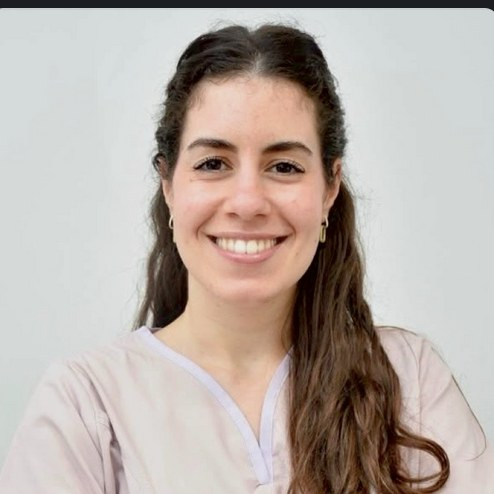
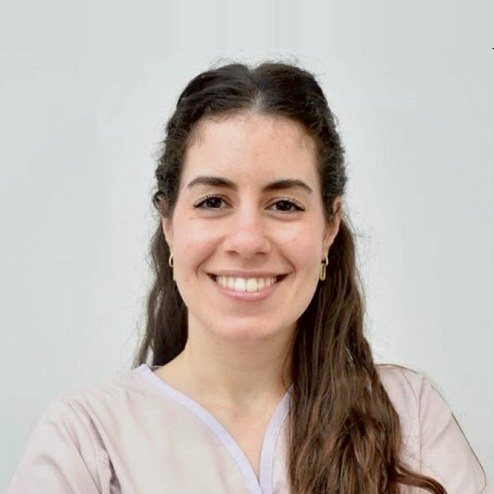
Precios ofrecía un pago en etapas que no existe y el equipo no estaba en orden alfabético
- Precios: sale la tarjeta "Pago en etapas"; el tratamiento incluye escaneos intraorales y contenciones al finalizar.
- Equipo y home: las cuatro ortodoncistas ordenadas por apellido.
- Equipo: se dictan cursos de alineadores dentales; sin comparación con "generalistas" (también en Recoleta, Belgrano, Buenos Aires y el blog).
- Foto de Virginia Heredia sin la franja negra y con aire arriba.

(cherry picked from commit 91c6d7b4066f65199213c3758a9563053bac5a31)

diff --git a/equipo.html b/equipo.html
@@ -73,6 +73,26 @@
 {
   "@context":"https://schema.org",
   "@type":"Person",
+  "name":"Dra. Monica Gonzalez",
+  "jobTitle":"Ortodoncista especializada en alineadores invisibles",
+  "worksFor":{
+    "@type":"Dentist",
+    "name":"Consultorio de Alineadores",
+    "url":"https://consultoriodealineadores.com"
+  },
+  "address":{
+    "@type":"PostalAddress",
+    "streetAddress":"Av. Scalabrini Ortiz 3183",
+    "addressLocality":"Palermo",
+    "addressRegion":"Ciudad Autonoma de Buenos Aires",
+    "addressCountry":"AR"
+  }
+}
+</script>
+<script type="application/ld+json">
+{
+  "@context":"https://schema.org",
+  "@type":"Person",
   "name":"Dra. Virginia Heredia",
   "jobTitle":"Ortodoncista especializada en alineadores invisibles",
   "worksFor":{
@@ -94,26 +114,6 @@
   "@context":"https://schema.org",
   "@type":"Person",
   "name":"Dra. Mariana Matelli",
-  "jobTitle":"Ortodoncista especializada en alineadores invisibles",
-  "worksFor":{
-    "@type":"Dentist",
-    "name":"Consultorio de Alineadores",
-    "url":"https://consultoriodealineadores.com"
-  },
-  "address":{
-    "@type":"PostalAddress",
-    "streetAddress":"Av. Scalabrini Ortiz 3183",
-    "addressLocality":"Palermo",
-    "addressRegion":"Ciudad Autonoma de Buenos Aires",
-    "addressCountry":"AR"
-  }
-}
-</script>
-<script type="application/ld+json">
-{
-  "@context":"https://schema.org",
-  "@type":"Person",
-  "name":"Dra. Monica Gonzalez",
   "jobTitle":"Ortodoncista especializada en alineadores invisibles",
   "worksFor":{
     "@type":"Dentist",
@@ -457,22 +457,22 @@ h3{font-size:clamp(1.15rem,2.5vw,1.5rem);font-weight:600}
         <p class="team-profile-bio">Especialista en ortodoncia con formacion en tratamientos con alineadores. Apasionada por la planificacion digital y los resultados predecibles.</p>
       </article>
       <article class="team-profile fade-up" style="transition-delay:.1s">
+        <img src="img/monica.jpg" alt="Dra. Monica Gonzalez — Ortodoncista especializada en alineadores invisibles" class="team-profile-photo" width="180" height="180" loading="lazy">
+        <h3>Dra. Monica Gonzalez</h3>
+        <div class="team-profile-spec">Ortodoncista — Esp. en alineadores invisibles</div>
+        <p class="team-profile-bio">Con anos de experiencia en ortodoncia, se especializa en tratamientos con alineadores para pacientes adultos.</p>
+      </article>
+      <article class="team-profile fade-up" style="transition-delay:.2s">
         <img src="img/virginia-heredia.jpg" alt="Dra. Virginia Heredia — Ortodoncista especializada en alineadores invisibles" class="team-profile-photo" width="180" height="180" loading="lazy">
         <h3>Dra. Virginia Heredia</h3>
         <div class="team-profile-spec">Ortodoncista — Esp. en alineadores invisibles</div>
         <p class="team-profile-bio">Ortodoncista especializada en tratamientos con alineadores invisibles. Se destaca por el seguimiento cercano y la comunicacion clara con cada paciente durante todo el tratamiento.</p>
       </article>
-      <article class="team-profile fade-up" style="transition-delay:.2s">
+      <article class="team-profile fade-up" style="transition-delay:.3s">
         <img src="img/mariana.jpg" alt="Dra. Mariana Matelli — Ortodoncista especializada en alineadores invisibles" class="team-profile-photo" width="180" height="180" loading="lazy">
         <h3>Dra. Mariana Matelli</h3>
         <div class="team-profile-spec">Ortodoncista — Esp. en alineadores invisibles</div>
         <p class="team-profile-bio">Especialista en ortodoncia estetica. Combina precision tecnica con un trato calido y empatico con cada paciente.</p>
-      </article>
-      <article class="team-profile fade-up" style="transition-delay:.3s">
-        <img src="img/monica.jpg" alt="Dra. Monica Gonzalez — Ortodoncista especializada en alineadores invisibles" class="team-profile-photo" width="180" height="180" loading="lazy">
-        <h3>Dra. Monica Gonzalez</h3>
-        <div class="team-profile-spec">Ortodoncista — Esp. en alineadores invisibles</div>
-        <p class="team-profile-bio">Con anos de experiencia en ortodoncia, se especializa en tratamientos con alineadores para pacientes adultos.</p>
       </article>
     </div>
   </div>
@@ -486,7 +486,7 @@ h3{font-size:clamp(1.15rem,2.5vw,1.5rem);font-weight:600}
       <h2 class="section-title">Por que elegir ortodoncistas que solo hacen alineadores?</h2>
     </div>
     <div class="why-spec-content fade-up">
-      <p>Cuando un profesional se dedica exclusivamente a un tratamiento, desarrolla una experiencia que los generalistas no pueden igualar. Nuestras ortodoncistas ven y resuelven todos los tipos de caso con alineadores, todos los dias.</p>
+      <p>Cuando un profesional se dedica exclusivamente a un tratamiento, desarrolla una experiencia dificil de igualar. Nuestras ortodoncistas ven y resuelven todos los tipos de caso con alineadores, todos los dias, y ademas dictan cursos de alineadores dentales para otros profesionales.</p>
       <div class="why-spec-grid">
         <div class="why-spec-item">
           <div class="why-spec-icon">

diff --git a/precios.html b/precios.html
@@ -284,7 +284,7 @@ h3{font-size:clamp(1.15rem,2.5vw,1.5rem);font-weight:600}
 
 /* ===== PAYMENT OPTIONS ===== */
 .payment{background:var(--white)}
-.payment-grid{display:grid;grid-template-columns:repeat(4,1fr);gap:24px}
+.payment-grid{display:grid;grid-template-columns:repeat(3,1fr);gap:24px}
 .payment-card{
   background:var(--gray-50);border-radius:var(--radius);padding:32px 24px;text-align:center;
   border:1px solid transparent;transition:all .3s;
@@ -635,13 +635,6 @@ h3{font-size:clamp(1.15rem,2.5vw,1.5rem);font-weight:600}
         <h3>Tarjeta de credito</h3>
         <p>En cuotas con tu tarjeta</p>
       </div>
-      <div class="payment-card fade-up" style="transition-delay:.3s">
-        <div class="payment-icon">
-          <svg viewBox="0 0 24 24"><polyline points="22 12 18 12 15 21 9 3 6 12 2 12"/></svg>
-        </div>
-        <h3>Pago en etapas</h3>
-        <p>Acompana el avance del tratamiento</p>
-      </div>
     </div>
   </div>
 </section>
@@ -661,23 +654,31 @@ h3{font-size:clamp(1.15rem,2.5vw,1.5rem);font-weight:600}
       </div>
       <div class="includes-item fade-up" style="transition-delay:.05s">
         <div class="includes-check"><svg viewBox="0 0 24 24"><path d="M20 6L9 17l-5-5"/></svg></div>
-        <span>Plan de tratamiento personalizado con simulacion</span>
+        <span>Escaneos intraorales</span>
       </div>
       <div class="includes-item fade-up" style="transition-delay:.1s">
         <div class="includes-check"><svg viewBox="0 0 24 24"><path d="M20 6L9 17l-5-5"/></svg></div>
-        <span>Todos los juegos de alineadores necesarios</span>
+        <span>Plan de tratamiento personalizado con simulacion</span>
       </div>
       <div class="includes-item fade-up" style="transition-delay:.15s">
         <div class="includes-check"><svg viewBox="0 0 24 24"><path d="M20 6L9 17l-5-5"/></svg></div>
-        <span>Controles regulares durante todo el tratamiento</span>
+        <span>Todos los juegos de alineadores necesarios</span>
       </div>
       <div class="includes-item fade-up" style="transition-delay:.2s">
         <div class="includes-check"><svg viewBox="0 0 24 24"><path d="M20 6L9 17l-5-5"/></svg></div>
-        <span>Seguimiento por WhatsApp con tu ortodoncista</span>
+        <span>Controles regulares durante todo el tratamiento</span>
       </div>
       <div class="includes-item fade-up" style="transition-delay:.25s">
         <div class="includes-check"><svg viewBox="0 0 24 24"><path d="M20 6L9 17l-5-5"/></svg></div>
+        <span>Seguimiento por WhatsApp con tu ortodoncista</span>
+      </div>
+      <div class="includes-item fade-up" style="transition-delay:.3s">
+        <div class="includes-check"><svg viewBox="0 0 24 24"><path d="M20 6L9 17l-5-5"/></svg></div>
         <span>Ajustes si son necesarios</span>
+      </div>
+      <div class="includes-item fade-up" style="transition-delay:.35s">
+        <div class="includes-check"><svg viewBox="0 0 24 24"><path d="M20 6L9 17l-5-5"/></svg></div>
+        <span>Contenciones al finalizar el tratamiento</span>
       </div>
     </div>
     <p class="includes-note fade-up">No hay costos ocultos. Todo se detalla desde el primer dia.</p>

diff --git a/index.html b/index.html
@@ -1089,18 +1089,18 @@ h3{font-size:clamp(1.15rem,2.5vw,1.5rem);font-weight:600}
         <p class="team-spec">Ortodoncista — Esp. en alineadores</p>
       </div>
       <div class="team-card fade-up" style="transition-delay:.1s">
+        <img class="team-photo" src="img/monica.jpg" alt="Dra. Monica Gonzalez, ortodoncista especialista en alineadores invisibles en Palermo" width="300" height="300" loading="lazy">
+        <h3>Dra. Monica Gonzalez</h3>
+        <p class="team-spec">Ortodoncista — Esp. en alineadores</p>
+      </div>
+      <div class="team-card fade-up" style="transition-delay:.2s">
         <img class="team-photo" src="img/virginia-heredia.jpg" alt="Dra. Virginia Heredia, ortodoncista especialista en alineadores invisibles en Palermo" width="300" height="300" loading="lazy">
         <h3>Dra. Virginia Heredia</h3>
         <p class="team-spec">Ortodoncista — Esp. en alineadores</p>
       </div>
-      <div class="team-card fade-up" style="transition-delay:.2s">
+      <div class="team-card fade-up" style="transition-delay:.3s">
         <img class="team-photo" src="img/mariana.jpg" alt="Dra. Mariana Matelli, ortodoncista especialista en alineadores invisibles en Palermo" width="300" height="300" loading="lazy">
         <h3>Dra. Mariana Matelli</h3>
-        <p class="team-spec">Ortodoncista — Esp. en alineadores</p>
-      </div>
-      <div class="team-card fade-up" style="transition-delay:.3s">
-        <img class="team-photo" src="img/monica.jpg" alt="Dra. Monica Gonzalez, ortodoncista especialista en alineadores invisibles en Palermo" width="300" height="300" loading="lazy">
-        <h3>Dra. Monica Gonzalez</h3>
         <p class="team-spec">Ortodoncista — Esp. en alineadores</p>
       </div>
     </div>

diff --git a/blog/keepsmiling-opiniones.html b/blog/keepsmiling-opiniones.html
@@ -395,7 +395,7 @@ h3{font-size:clamp(1.15rem,2.5vw,1.5rem);font-weight:600}
       <p>Estas son las razones principales:</p>
 
       <ul>
-        <li><strong>Especializaci&oacute;n real:</strong> al trabajar solo con un sistema, conocemos cada detalle de c&oacute;mo se planifican los movimientos, qu&eacute; esperar en cada etapa y c&oacute;mo resolver situaciones particulares. No somos generalistas: somos especialistas.</li>
+        <li><strong>Especializaci&oacute;n real:</strong> al trabajar solo con un sistema, conocemos cada detalle de c&oacute;mo se planifican los movimientos, qu&eacute; esperar en cada etapa y c&oacute;mo resolver situaciones particulares. Somos especialistas.</li>
         <li><strong>Conocemos la tecnolog&iacute;a por dentro:</strong> despu&eacute;s de tratar cientos de casos con KeepSmiling, entendemos c&oacute;mo responde cada tipo de movimiento, cu&aacute;ndo conviene agregar recursos auxiliares y c&oacute;mo optimizar la planificaci&oacute;n para cada paciente.</li>
         <li><strong>Fabricaci&oacute;n local:</strong> al ser una marca argentina, los tiempos de entrega son considerablemente m&aacute;s r&aacute;pidos que con marcas importadas. No hay demoras de aduana ni log&iacute;stica internacional.</li>
         <li><strong>Soporte directo del laboratorio:</strong> si necesitamos hacer un ajuste, consultar algo t&eacute;cnico o pedir un refinamiento, la comunicaci&oacute;n con el equipo de KeepSmiling es directa y &aacute;gil. Eso se traduce en un mejor seguimiento de cada caso.</li>

diff --git a/alineadores-invisibles-recoleta.html b/alineadores-invisibles-recoleta.html
@@ -610,7 +610,7 @@ h3{font-size:clamp(1.15rem,2.5vw,1.5rem);font-weight:600}
       <div class="why-card fade-up">
         <div class="why-icon"><svg viewBox="0 0 24 24"><path d="M12 2L2 7l10 5 10-5-10-5z"/><path d="M2 17l10 5 10-5"/><path d="M2 12l10 5 10-5"/></svg></div>
         <h3>Especializacion total</h3>
-        <p>No somos una clinica generalista. 4 ortodoncistas dedicadas exclusivamente a alineadores invisibles. Eso nos hace mejores.</p>
+        <p>4 ortodoncistas dedicadas exclusivamente a alineadores invisibles. Eso nos hace mejores.</p>
       </div>
       <div class="why-card fade-up" style="transition-delay:.1s">
         <div class="why-icon"><svg viewBox="0 0 24 24"><path d="M21 10c0 7-9 13-9 13s-9-6-9-13a9 9 0 0 1 18 0z"/><circle cx="12" cy="10" r="3"/></svg></div>

diff --git a/alineadores-invisibles-buenos-aires.html b/alineadores-invisibles-buenos-aires.html
@@ -633,7 +633,7 @@ h4{font-size:1rem;font-weight:600}
       <div class="why-card fade-up">
         <div class="why-icon"><svg viewBox="0 0 24 24"><path d="M12 2L2 7l10 5 10-5-10-5z"/><path d="M2 17l10 5 10-5"/><path d="M2 12l10 5 10-5"/></svg></div>
         <h3>Especializacion total</h3>
-        <p>Somos el consultorio que solo hace alineadores. Eso nos da una profundidad de experiencia que los generalistas no pueden igualar.</p>
+        <p>Somos el consultorio que solo hace alineadores. Eso nos da una profundidad de experiencia dificil de igualar.</p>
       </div>
       <div class="why-card fade-up" style="transition-delay:.1s">
         <div class="why-icon"><svg viewBox="0 0 24 24"><path d="M12 22s8-4 8-10V5l-8-3-8 3v7c0 6 8 10 8 10z"/></svg></div>

diff --git a/alineadores-invisibles-belgrano.html b/alineadores-invisibles-belgrano.html
@@ -623,7 +623,7 @@ h3{font-size:clamp(1.15rem,2.5vw,1.5rem);font-weight:600}
       <div class="why-card fade-up">
         <div class="why-icon"><svg viewBox="0 0 24 24"><path d="M12 2L2 7l10 5 10-5-10-5z"/><path d="M2 17l10 5 10-5"/><path d="M2 12l10 5 10-5"/></svg></div>
         <h3>Especializacion real</h3>
-        <p>4 ortodoncistas que solo hacen alineadores, no un dentista generalista que "tambien" los ofrece.</p>
+        <p>4 ortodoncistas que solo hacen alineadores invisibles, todos los dias.</p>
       </div>
       <div class="why-card fade-up" style="transition-delay:.1s">
         <div class="why-icon"><svg viewBox="0 0 24 24"><path d="M21 10c0 7-9 13-9 13s-9-6-9-13a9 9 0 0 1 18 0z"/><circle cx="12" cy="10" r="3"/></svg></div>
